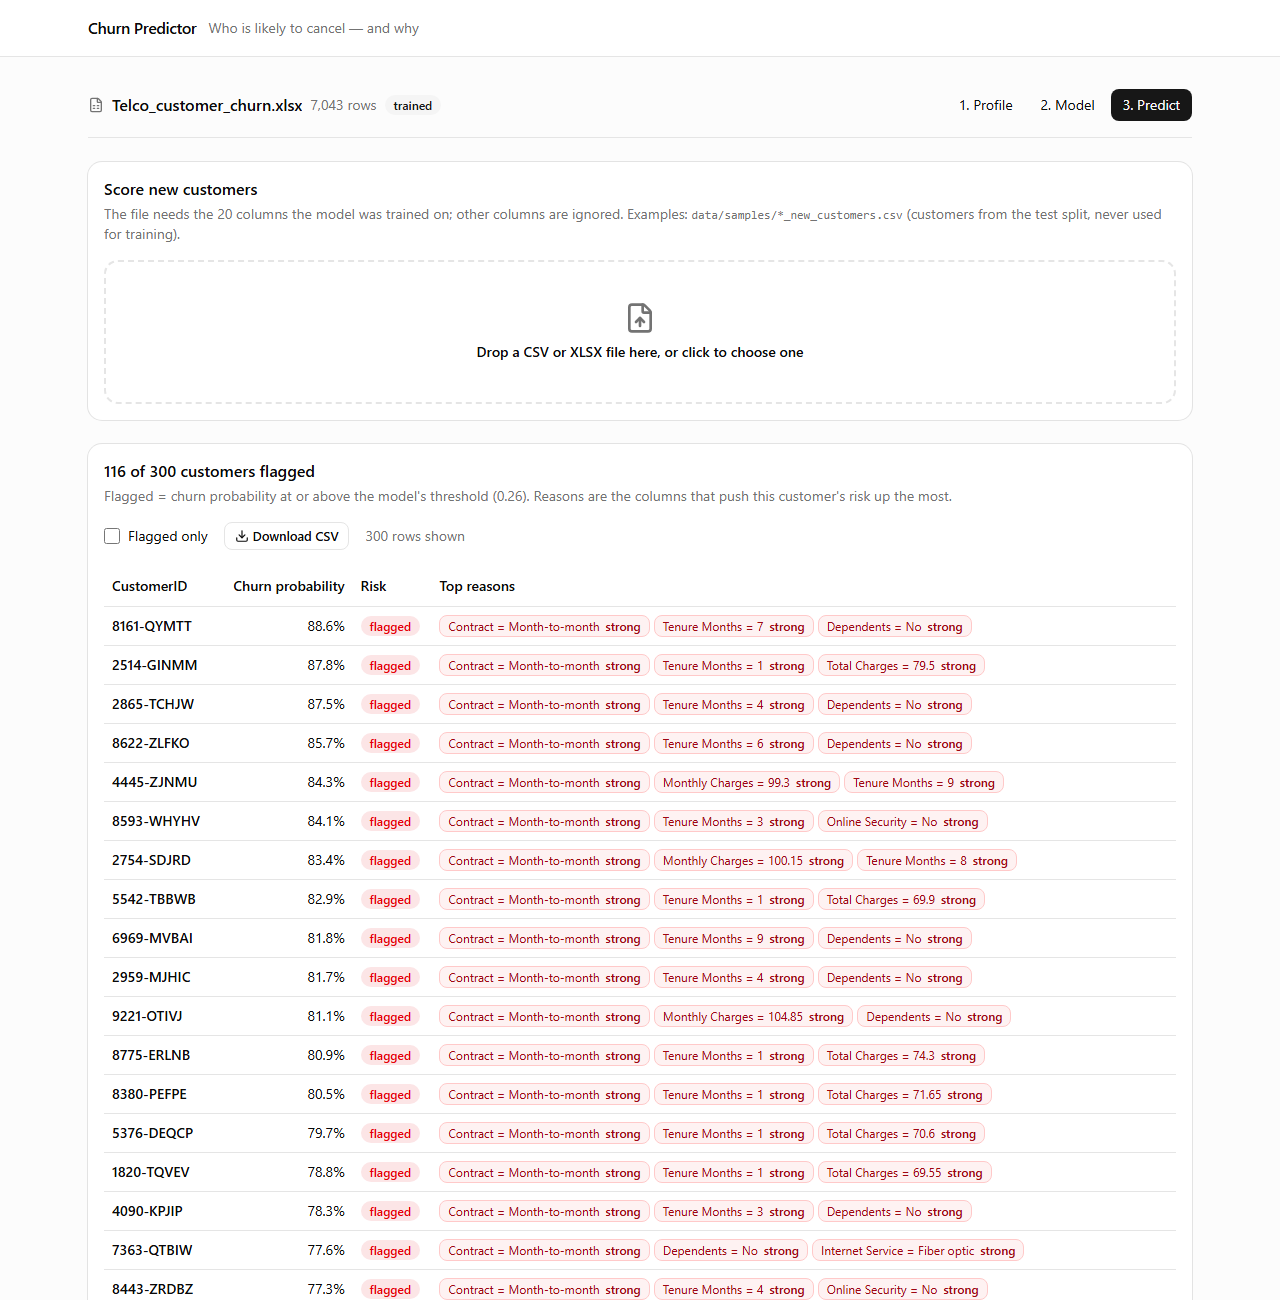
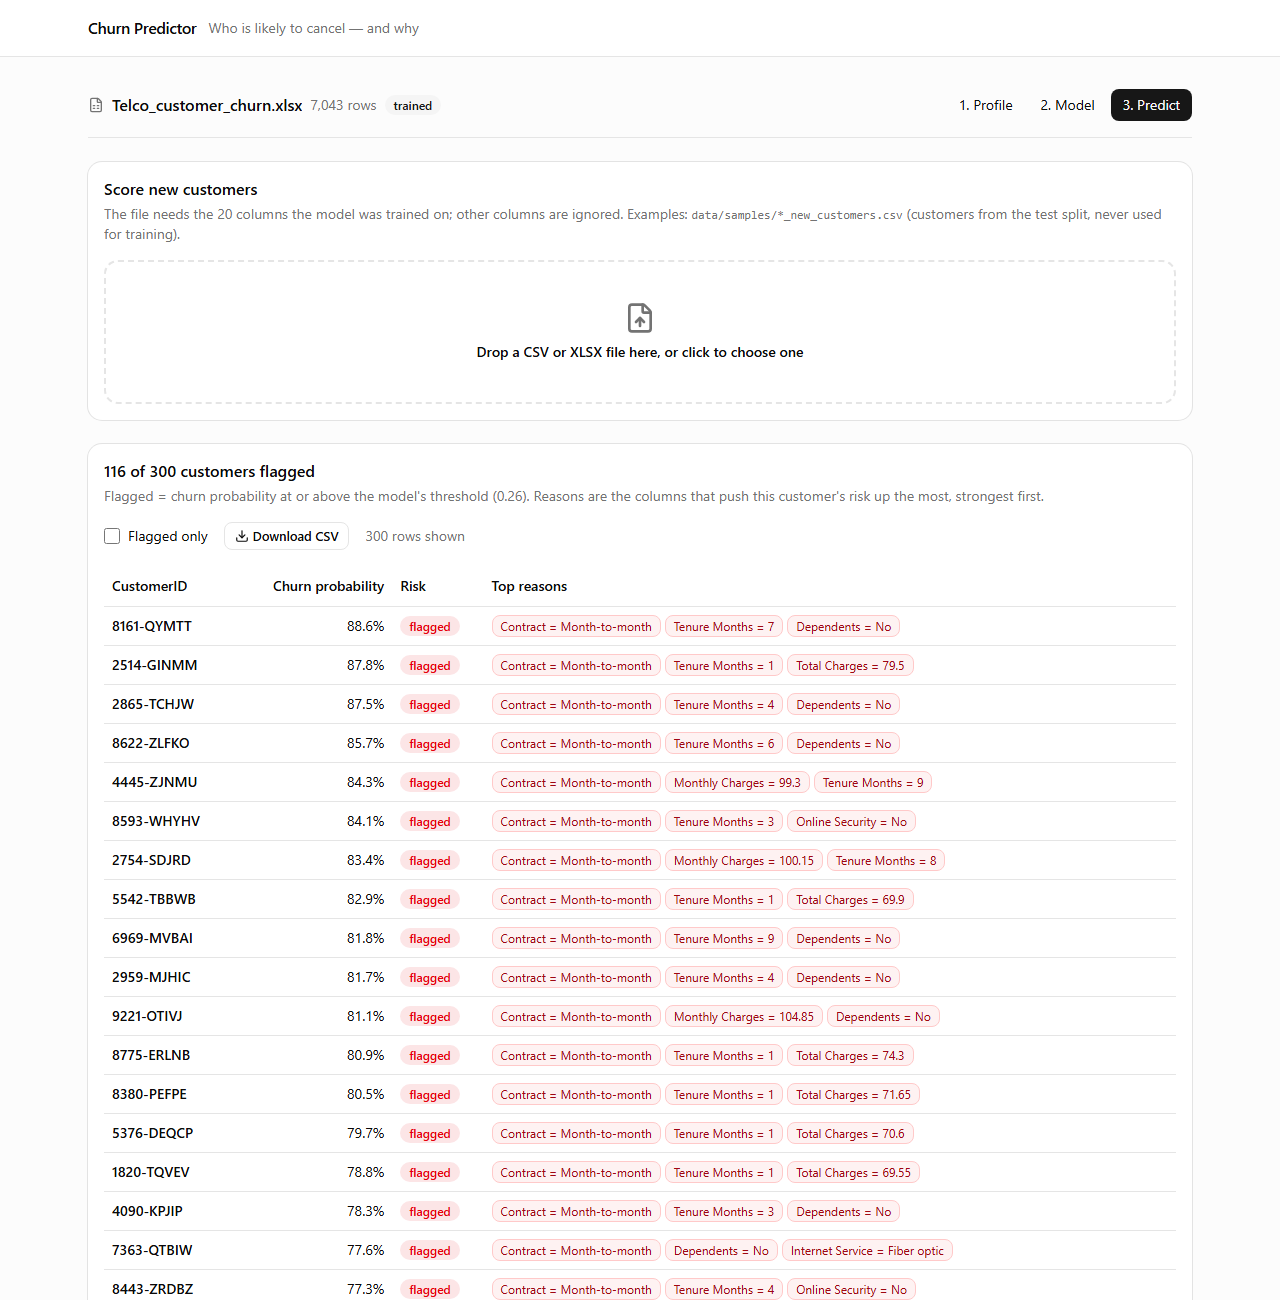
refactor: drop strong/moderate/slight labels on customer reasons
Reasons stay the largest positive LightGBM contributions, in decreasing
order (up to 3). Removes strength_cutoffs/strength from src/churn and the
API metrics and predict response, the Strength type, coloured chips and
the CSV suffix in the frontend, and the README mention. The API test now
checks the order instead of the label. Retakes docs/images/04_predict.png.

Changed region(s): [[0.1875, 0.4308, 0.7812, 1.0], [0.75, 0.3692, 0.8125, 0.4]]

diff --git a/frontend/src/components/predict-view.tsx b/frontend/src/components/predict-view.tsx
@@ -15,27 +15,12 @@ import { Table, TableBody, TableCell, TableHead, TableHeader, TableRow } from "@
 import { api, ApiError } from "@/lib/api";
 import { num, pct } from "@/lib/format";
 import { useDataset } from "@/lib/queries";
-import type { PredictResponse, Reason, Strength } from "@/lib/types";
-import { cn } from "@/lib/utils";
-
-const STRENGTH_STYLE: Record<Strength, string> = {
-  strong: "border-red-200 bg-red-50 text-red-800",
-  moderate: "border-amber-200 bg-amber-50 text-amber-800",
-  slight: "border-border bg-muted text-muted-foreground",
-};
+import type { PredictResponse, Reason } from "@/lib/types";
 
 function ReasonChip({ reason }: { reason: Reason }) {
   return (
-    <span
-      className={cn(
-        "inline-flex items-center gap-1.5 rounded-md border px-2 py-0.5 text-xs",
-        STRENGTH_STYLE[reason.strength],
-      )}
-    >
-      <span>
-        {reason.feature} = {reason.value}
-      </span>
-      <span className="font-medium">{reason.strength}</span>
+    <span className="inline-flex items-center rounded-md border border-red-200 bg-red-50 px-2 py-0.5 text-xs text-red-800">
+      {reason.feature} = {reason.value}
     </span>
   );
 }
@@ -54,7 +39,7 @@ function downloadCsv(result: PredictResponse, filename: string) {
       p.flagged,
       ...[0, 1, 2].map((i) => {
         const r = p.reasons[i];
-        return r ? `${r.feature} = ${r.value} (${r.strength})` : "";
+        return r ? `${r.feature} = ${r.value}` : "";
       }),
     ]
       .map(csvCell)
@@ -145,7 +130,7 @@ export function PredictView({ id }: { id: string }) {
             </CardTitle>
             <CardDescription>
               Flagged = churn probability at or above the model&apos;s threshold ({num(result.threshold, 2)}). Reasons
-              are the columns that push this customer&apos;s risk up the most.
+              are the columns that push this customer&apos;s risk up the most, strongest first.
             </CardDescription>
           </CardHeader>
           <CardContent className="space-y-4">

diff --git a/frontend/src/lib/types.ts b/frontend/src/lib/types.ts
@@ -119,7 +119,6 @@ export interface ModelMetrics {
   test: TestMetrics;
   curves: { lightgbm: CurvePoints; logistic_regression: CurvePoints };
   global_importance_top10: { feature: string; mean_abs_contribution: number }[];
-  strength_cutoffs: { moderate: number; strong: number };
   notes: string[];
   timing_seconds: Record<string, number>;
 }
@@ -161,12 +160,9 @@ export interface TrainResponse {
   n_trials: number;
 }
 
-export type Strength = "strong" | "moderate" | "slight";
-
 export interface Reason {
   feature: string;
   value: string;
-  strength: Strength;
   contribution: number;
 }
 

diff --git a/src/api/service.py b/src/api/service.py
@@ -13,7 +13,7 @@ import pandas as pd
 
 from src.churn.data import POSITIVE_TOKENS, PreparedData, _norm_label, normalize_column_name, prepare, read_table
 from src.churn.evaluate import TEST_SET_NOTE, score_test
-from src.churn.explain import global_importance, strength_cutoffs
+from src.churn.explain import global_importance
 from src.churn.predict import predict
 from src.churn.stats import curve_points
 from src.churn.train import ChurnModel, load_model, save_model, train
@@ -115,7 +115,6 @@ def train_and_score(data: PreparedData, features: list[str], settings: Settings,
         "test": test,
         "curves": {"lightgbm": curve_points(y, p_lgbm), "logistic_regression": curve_points(y, p_lr)},
         "global_importance_top10": global_importance(result.model, X_tr)[:10],
-        "strength_cutoffs": strength_cutoffs(result.model, X_tr),
         "notes": [RETRAIN_NOTE, TEST_SET_NOTE],
         "timing_seconds": {**result.seconds, "total": round(time.perf_counter() - t0, 1)},
     }
@@ -180,8 +179,9 @@ class Trainer:
         return cached[1]
 
 
-def score_file(model: ChurnModel, df: pd.DataFrame, cutoffs: dict, id_column: str | None) -> dict:
-    out = predict(model, df, k=3, positive_only=True, cutoffs=cutoffs)
+def score_file(model: ChurnModel, df: pd.DataFrame, id_column: str | None) -> dict:
+    """Up to 3 reasons per customer: the largest positive contributions, in decreasing order."""
+    out = predict(model, df, k=3, positive_only=True)
     columns = {normalize_column_name(c): c for c in df.columns}
     if id_column and id_column in columns:
         ids = df[columns[id_column]].astype(str).tolist()
@@ -192,7 +192,7 @@ def score_file(model: ChurnModel, df: pd.DataFrame, cutoffs: dict, id_column: st
             "id": ids[i],
             "probability": float(row.churn_probability),
             "flagged": bool(row.predicted_churn),
-            "reasons": [{k: r[k] for k in ("feature", "value", "strength", "contribution")} for r in row.reasons],
+            "reasons": [{k: r[k] for k in ("feature", "value", "contribution")} for r in row.reasons],
         }
         for i, row in enumerate(out.itertuples(index=False))
     ]

diff --git a/src/churn/explain.py b/src/churn/explain.py
@@ -23,30 +23,10 @@ def format_value(value) -> str:
     return str(value).strip()
 
 
-def strength_cutoffs(model: ChurnModel, X_train: pd.DataFrame) -> dict:
-    """Tertiles of the positive contributions on the training split, used to label reasons."""
-    values = contributions(model, X_train).to_numpy().ravel()
-    positive = values[values > 0]
-    if positive.size == 0:
-        return {"moderate": 0.0, "strong": 0.0}
-    return {"moderate": float(np.percentile(positive, 100 / 3)), "strong": float(np.percentile(positive, 200 / 3))}
-
-
-def strength(contribution: float, cutoffs: dict) -> str:
-    if contribution >= cutoffs["strong"]:
-        return "strong"
-    if contribution >= cutoffs["moderate"]:
-        return "moderate"
-    return "slight"
-
-
-def top_reasons(
-    model: ChurnModel, X: pd.DataFrame, k: int = 3, positive_only: bool = False, cutoffs: dict | None = None
-) -> list[list[dict]]:
+def top_reasons(model: ChurnModel, X: pd.DataFrame, k: int = 3, positive_only: bool = False) -> list[list[dict]]:
     """For each row, the k features that push the churn score up the most (largest contributions first).
 
     With ``positive_only`` only contributions above zero are returned (so a row can get fewer than k).
-    With ``cutoffs`` (from ``strength_cutoffs``) each reason also gets a ``strength`` label.
     """
     contrib = contributions(model, X)
     out = []
@@ -57,15 +37,12 @@ def top_reasons(
         reasons = []
         for feature, value in top.head(k).items():
             shown = format_value(X.at[idx, feature])
-            reason = {
+            reasons.append({
                 "feature": feature,
                 "value": shown,
                 "contribution": float(value),
                 "text": f"{feature} = {shown} ({value:+.2f})",
-            }
-            if cutoffs is not None:
-                reason["strength"] = strength(float(value), cutoffs)
-            reasons.append(reason)
+            })
         out.append(reasons)
     return out
 

diff --git a/src/api/main.py b/src/api/main.py
@@ -208,7 +208,7 @@ def create_app(settings: Settings | None = None) -> FastAPI:
 
     @app.post("/api/datasets/{dataset_id}/predict")
     def predict_file(dataset_id: str, file: Annotated[UploadFile, File()]):
-        """Score a file of customers: probability, flag at the model's threshold, up to 3 reasons each."""
+        """Score a file of customers: probability, flag at the threshold, up to 3 reasons each (largest first)."""
         row = get_row(dataset_id)
         model_row = store.get_model(dataset_id)
         if model_row is None:
@@ -224,7 +224,7 @@ def create_app(settings: Settings | None = None) -> FastAPI:
         model = trainer.model(model_row["path"])
         id_columns = [c["name"] for c in (row["profile"] or {}).get("columns", []) if c["role"] == "id"]
         try:
-            return score_file(model, df, model_row["metrics"]["strength_cutoffs"], next(iter(id_columns), None))
+            return score_file(model, df, next(iter(id_columns), None))
         except MissingColumnsError as e:
             raise HTTPException(422, {"message": str(e), "missing_columns": e.missing}) from e
 

diff --git a/src/churn/predict.py b/src/churn/predict.py
@@ -24,17 +24,15 @@ def check_columns(model: ChurnModel, df: pd.DataFrame) -> pd.DataFrame:
     return df
 
 
-def predict(
-    model: ChurnModel, df: pd.DataFrame, k: int = 3, positive_only: bool = False, cutoffs: dict | None = None
-) -> pd.DataFrame:
+def predict(model: ChurnModel, df: pd.DataFrame, k: int = 3, positive_only: bool = False) -> pd.DataFrame:
     """Returns one row per customer: churn probability, label at the model's threshold, top-k reasons.
 
-    ``positive_only`` and ``cutoffs`` are passed to ``explain.top_reasons``.
+    ``positive_only`` is passed to ``explain.top_reasons``.
     """
     df = check_columns(model, df)
     proba = model.predict_proba(df)
     return pd.DataFrame({
         "churn_probability": proba,
         "predicted_churn": proba >= model.threshold,
-        "reasons": top_reasons(model, df, k=k, positive_only=positive_only, cutoffs=cutoffs),
+        "reasons": top_reasons(model, df, k=k, positive_only=positive_only),
     }, index=df.index)

diff --git a/tests/test_api.py b/tests/test_api.py
@@ -73,9 +73,11 @@ def test_full_flow_upload_profile_train_predict(client):
         assert 0 <= p["probability"] <= 1
         assert p["flagged"] == (p["probability"] >= out["threshold"])
         assert len(p["reasons"]) <= 3
+        contributions = [r["contribution"] for r in p["reasons"]]
+        assert contributions == sorted(contributions, reverse=True)
         for r in p["reasons"]:
             assert r["contribution"] > 0
-            assert r["strength"] in ("strong", "moderate", "slight")
+            assert set(r) == {"feature", "value", "contribution"}
             assert r["feature"] in features
 
 

diff --git a/README.md b/README.md
@@ -55,7 +55,7 @@ CSV/XLSX → profile (train split, leakage flags) → LightGBM + Optuna in one P
 2. **Profile.** Each column gets a role (id, constant, numeric, categorical, datetime) and flags, all measured on the training split: *target copy* / *likely leakage* (a model on that column alone is too good), *missing reveals target*, *location*, and a *check timing* question for names like `score` or `reason`. Flagged columns are unticked by default.
 3. **Train.** One LightGBM, tuned by Optuna on 5-fold CV of the training split, and a logistic-regression baseline. Every learned step is inside the `Pipeline`, so the saved model scores raw uploaded columns. No resampling or calibration, so the probabilities shown are the model's own.
 4. **Evaluate once** on the test split, with paired bootstrap CIs for both models and their difference.
-5. **Predict.** Each customer gets a probability, a flag at the F1 threshold chosen on training data, and up to three reasons from LightGBM's `pred_contrib` (labelled strong / moderate / slight).
+5. **Predict.** Each customer gets a probability, a flag at the F1 threshold chosen on training data, and up to three reasons from LightGBM's `pred_contrib`, listed from the strongest push upwards.
 
 | Upload | Profile | Model |
 |---|---|---|
